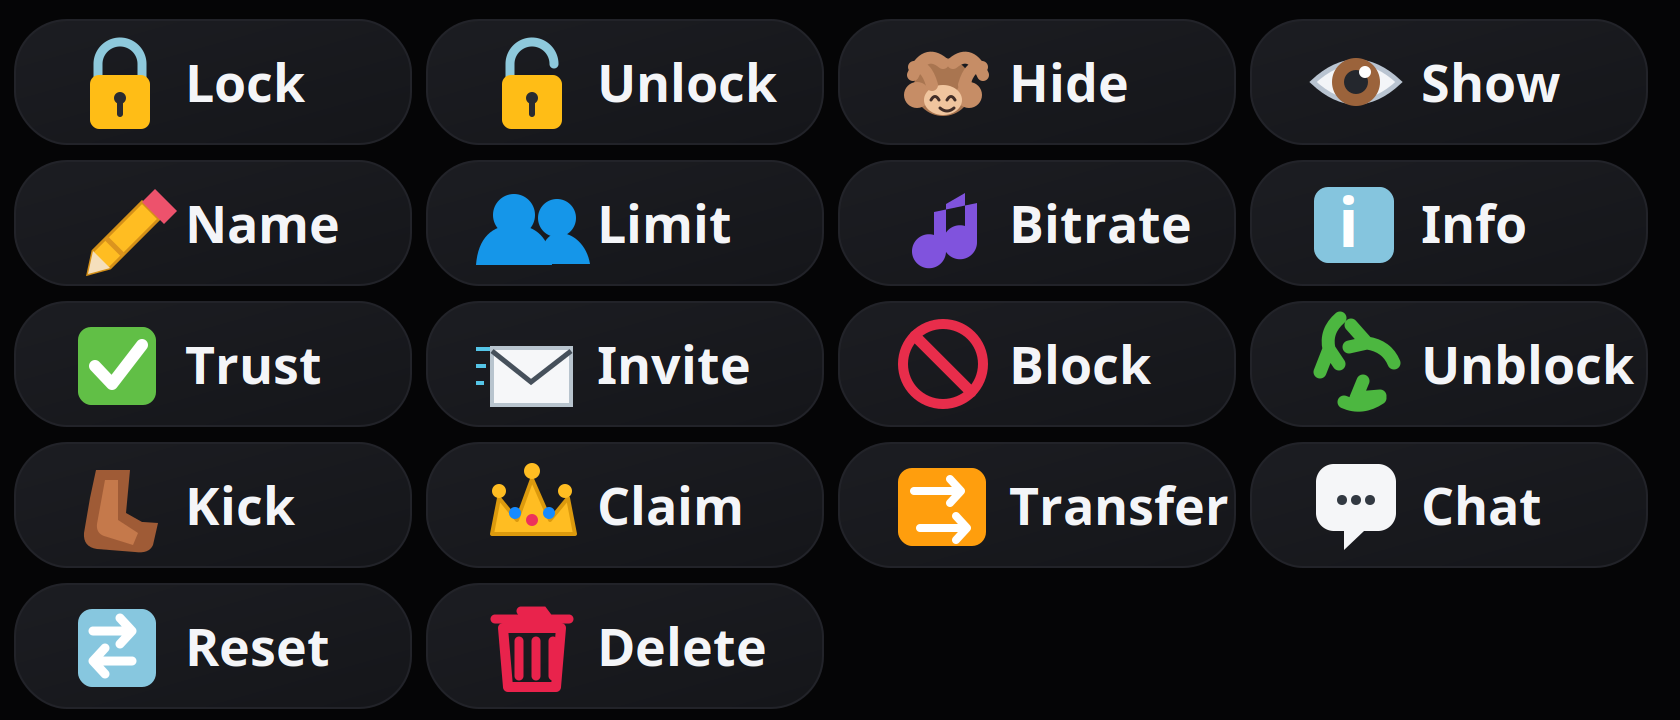
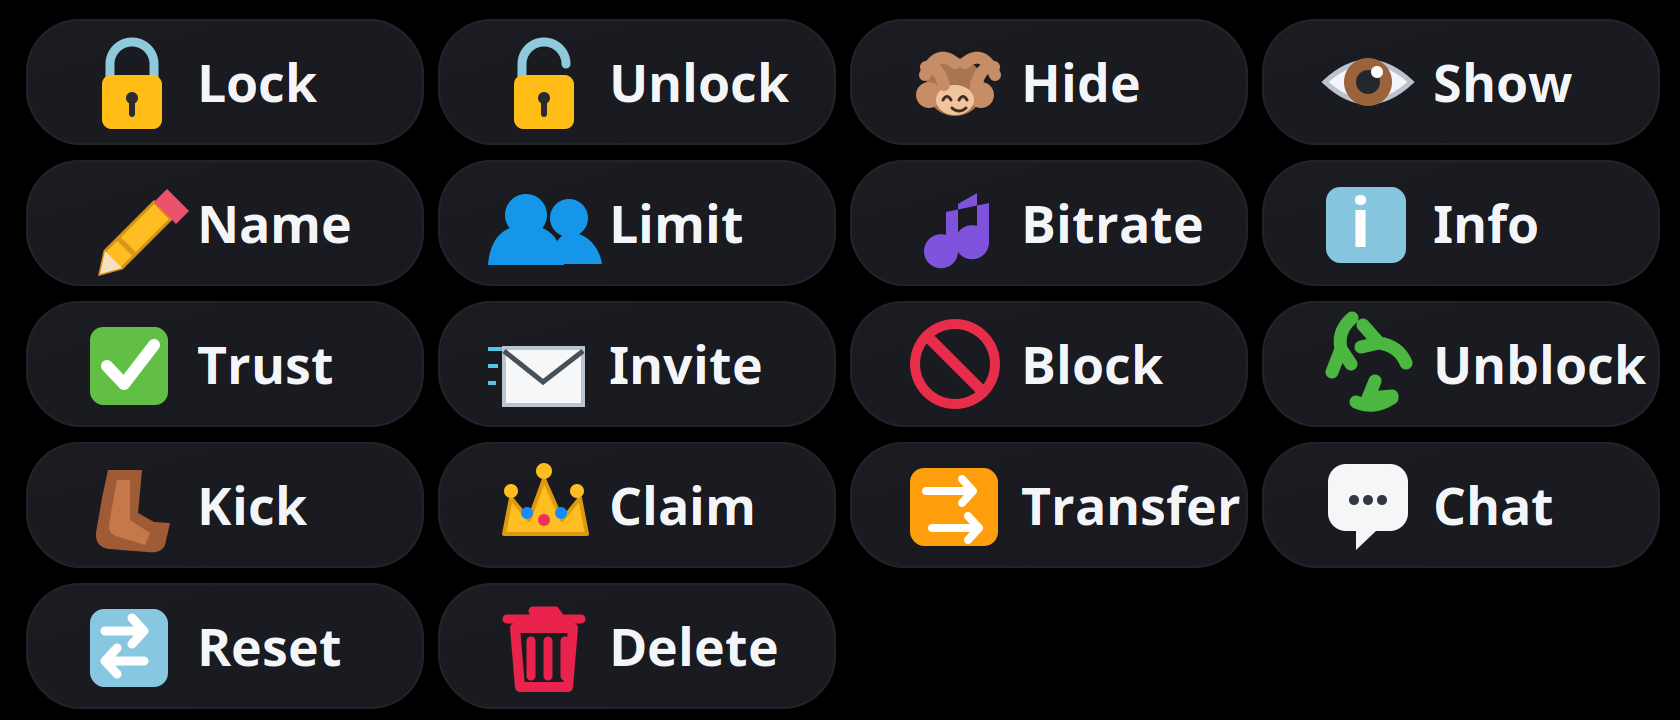
style: use dark JTC control buttons

diff --git a/src/utils/joinToCreatePanel.js b/src/utils/joinToCreatePanel.js
@@ -13,26 +13,26 @@ const PANEL_ROWS = [
         { id: 'show', emoji: '👁', style: ButtonStyle.Secondary },
     ],
     [
-        { id: 'name', emoji: '✏', style: ButtonStyle.Primary },
-        { id: 'limit', emoji: '👥', style: ButtonStyle.Primary },
-        { id: 'bitrate', emoji: '🎵', style: ButtonStyle.Primary },
-        { id: 'info', emoji: 'ℹ', style: ButtonStyle.Primary },
+        { id: 'name', emoji: '✏', style: ButtonStyle.Secondary },
+        { id: 'limit', emoji: '👥', style: ButtonStyle.Secondary },
+        { id: 'bitrate', emoji: '🎵', style: ButtonStyle.Secondary },
+        { id: 'info', emoji: 'ℹ', style: ButtonStyle.Secondary },
     ],
     [
-        { id: 'trust', emoji: '✅', style: ButtonStyle.Success },
-        { id: 'invite', emoji: '📨', style: ButtonStyle.Success },
-        { id: 'block', emoji: '🚫', style: ButtonStyle.Danger },
+        { id: 'trust', emoji: '✅', style: ButtonStyle.Secondary },
+        { id: 'invite', emoji: '📨', style: ButtonStyle.Secondary },
+        { id: 'block', emoji: '🚫', style: ButtonStyle.Secondary },
         { id: 'unblock', emoji: '♻', style: ButtonStyle.Secondary },
     ],
     [
-        { id: 'kick', emoji: '👢', style: ButtonStyle.Danger },
-        { id: 'claim', emoji: '👑', style: ButtonStyle.Primary },
-        { id: 'transfer', emoji: '🔁', style: ButtonStyle.Primary },
+        { id: 'kick', emoji: '👢', style: ButtonStyle.Secondary },
+        { id: 'claim', emoji: '👑', style: ButtonStyle.Secondary },
+        { id: 'transfer', emoji: '🔁', style: ButtonStyle.Secondary },
         { id: 'chat', emoji: '💬', style: ButtonStyle.Secondary },
     ],
     [
         { id: 'reset', emoji: '🔄', style: ButtonStyle.Secondary },
-        { id: 'delete', emoji: '🗑', style: ButtonStyle.Danger },
+        { id: 'delete', emoji: '🗑', style: ButtonStyle.Secondary },
     ],
 ];
 
